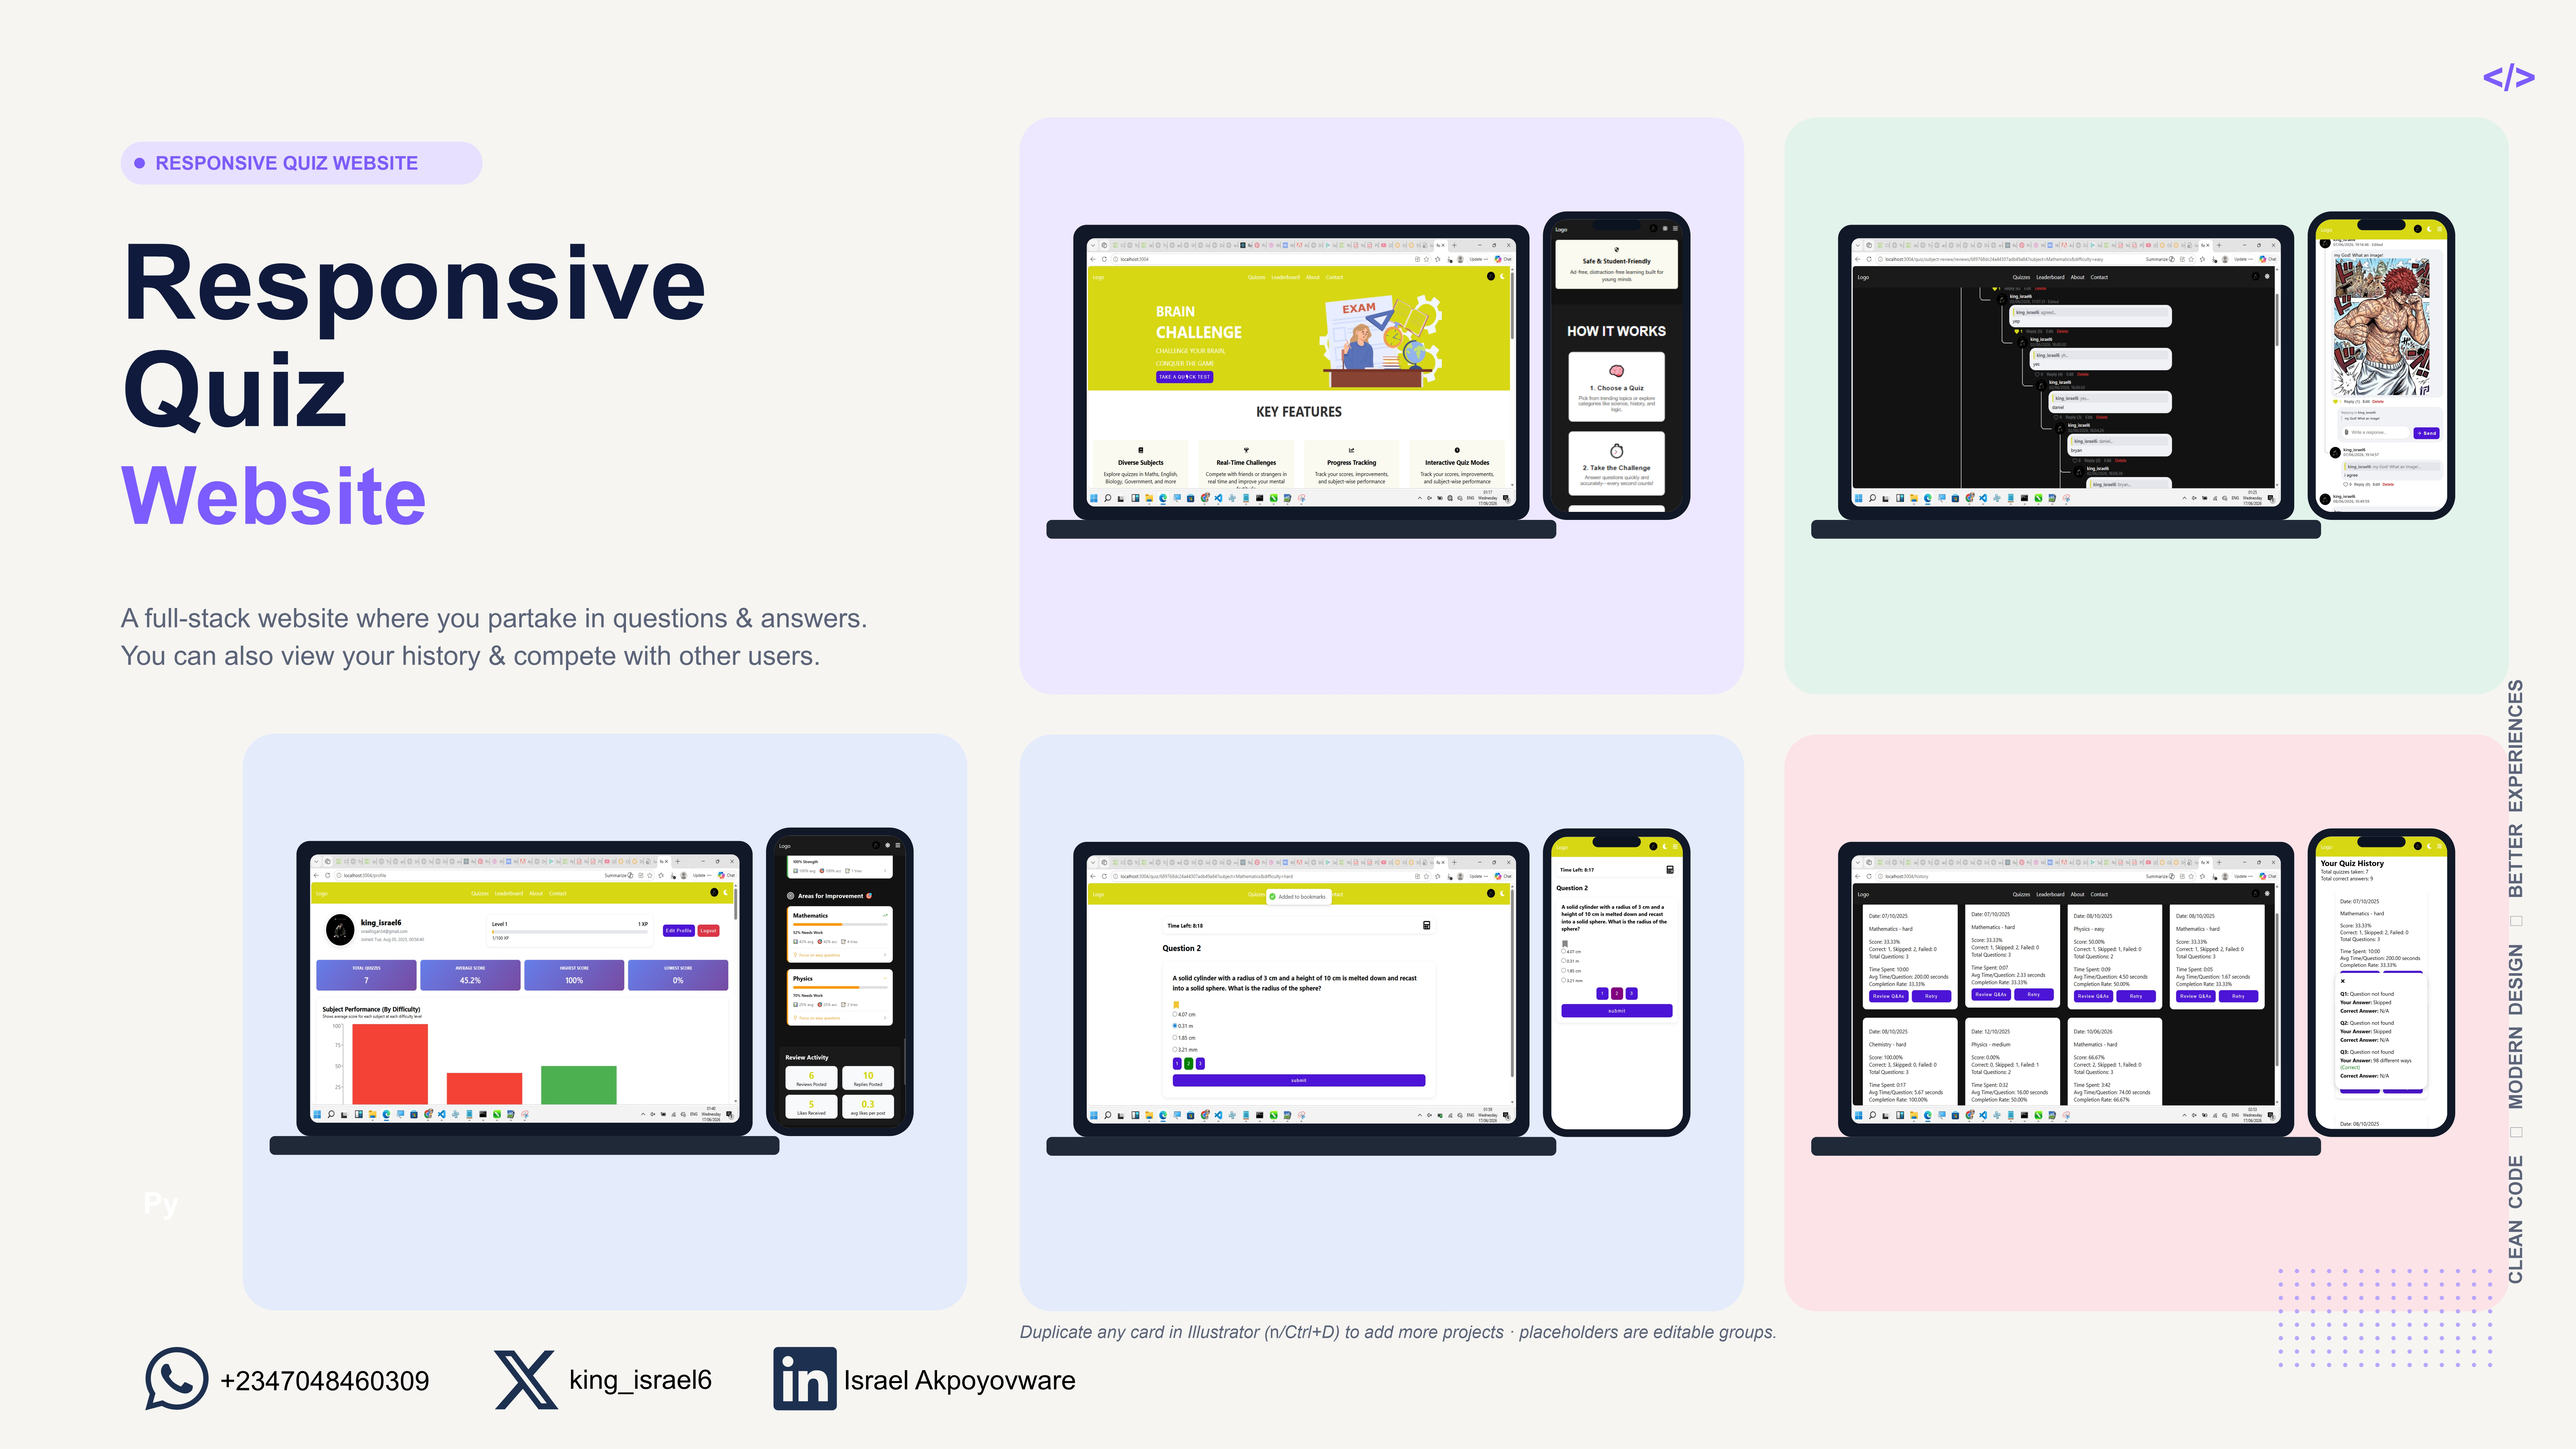
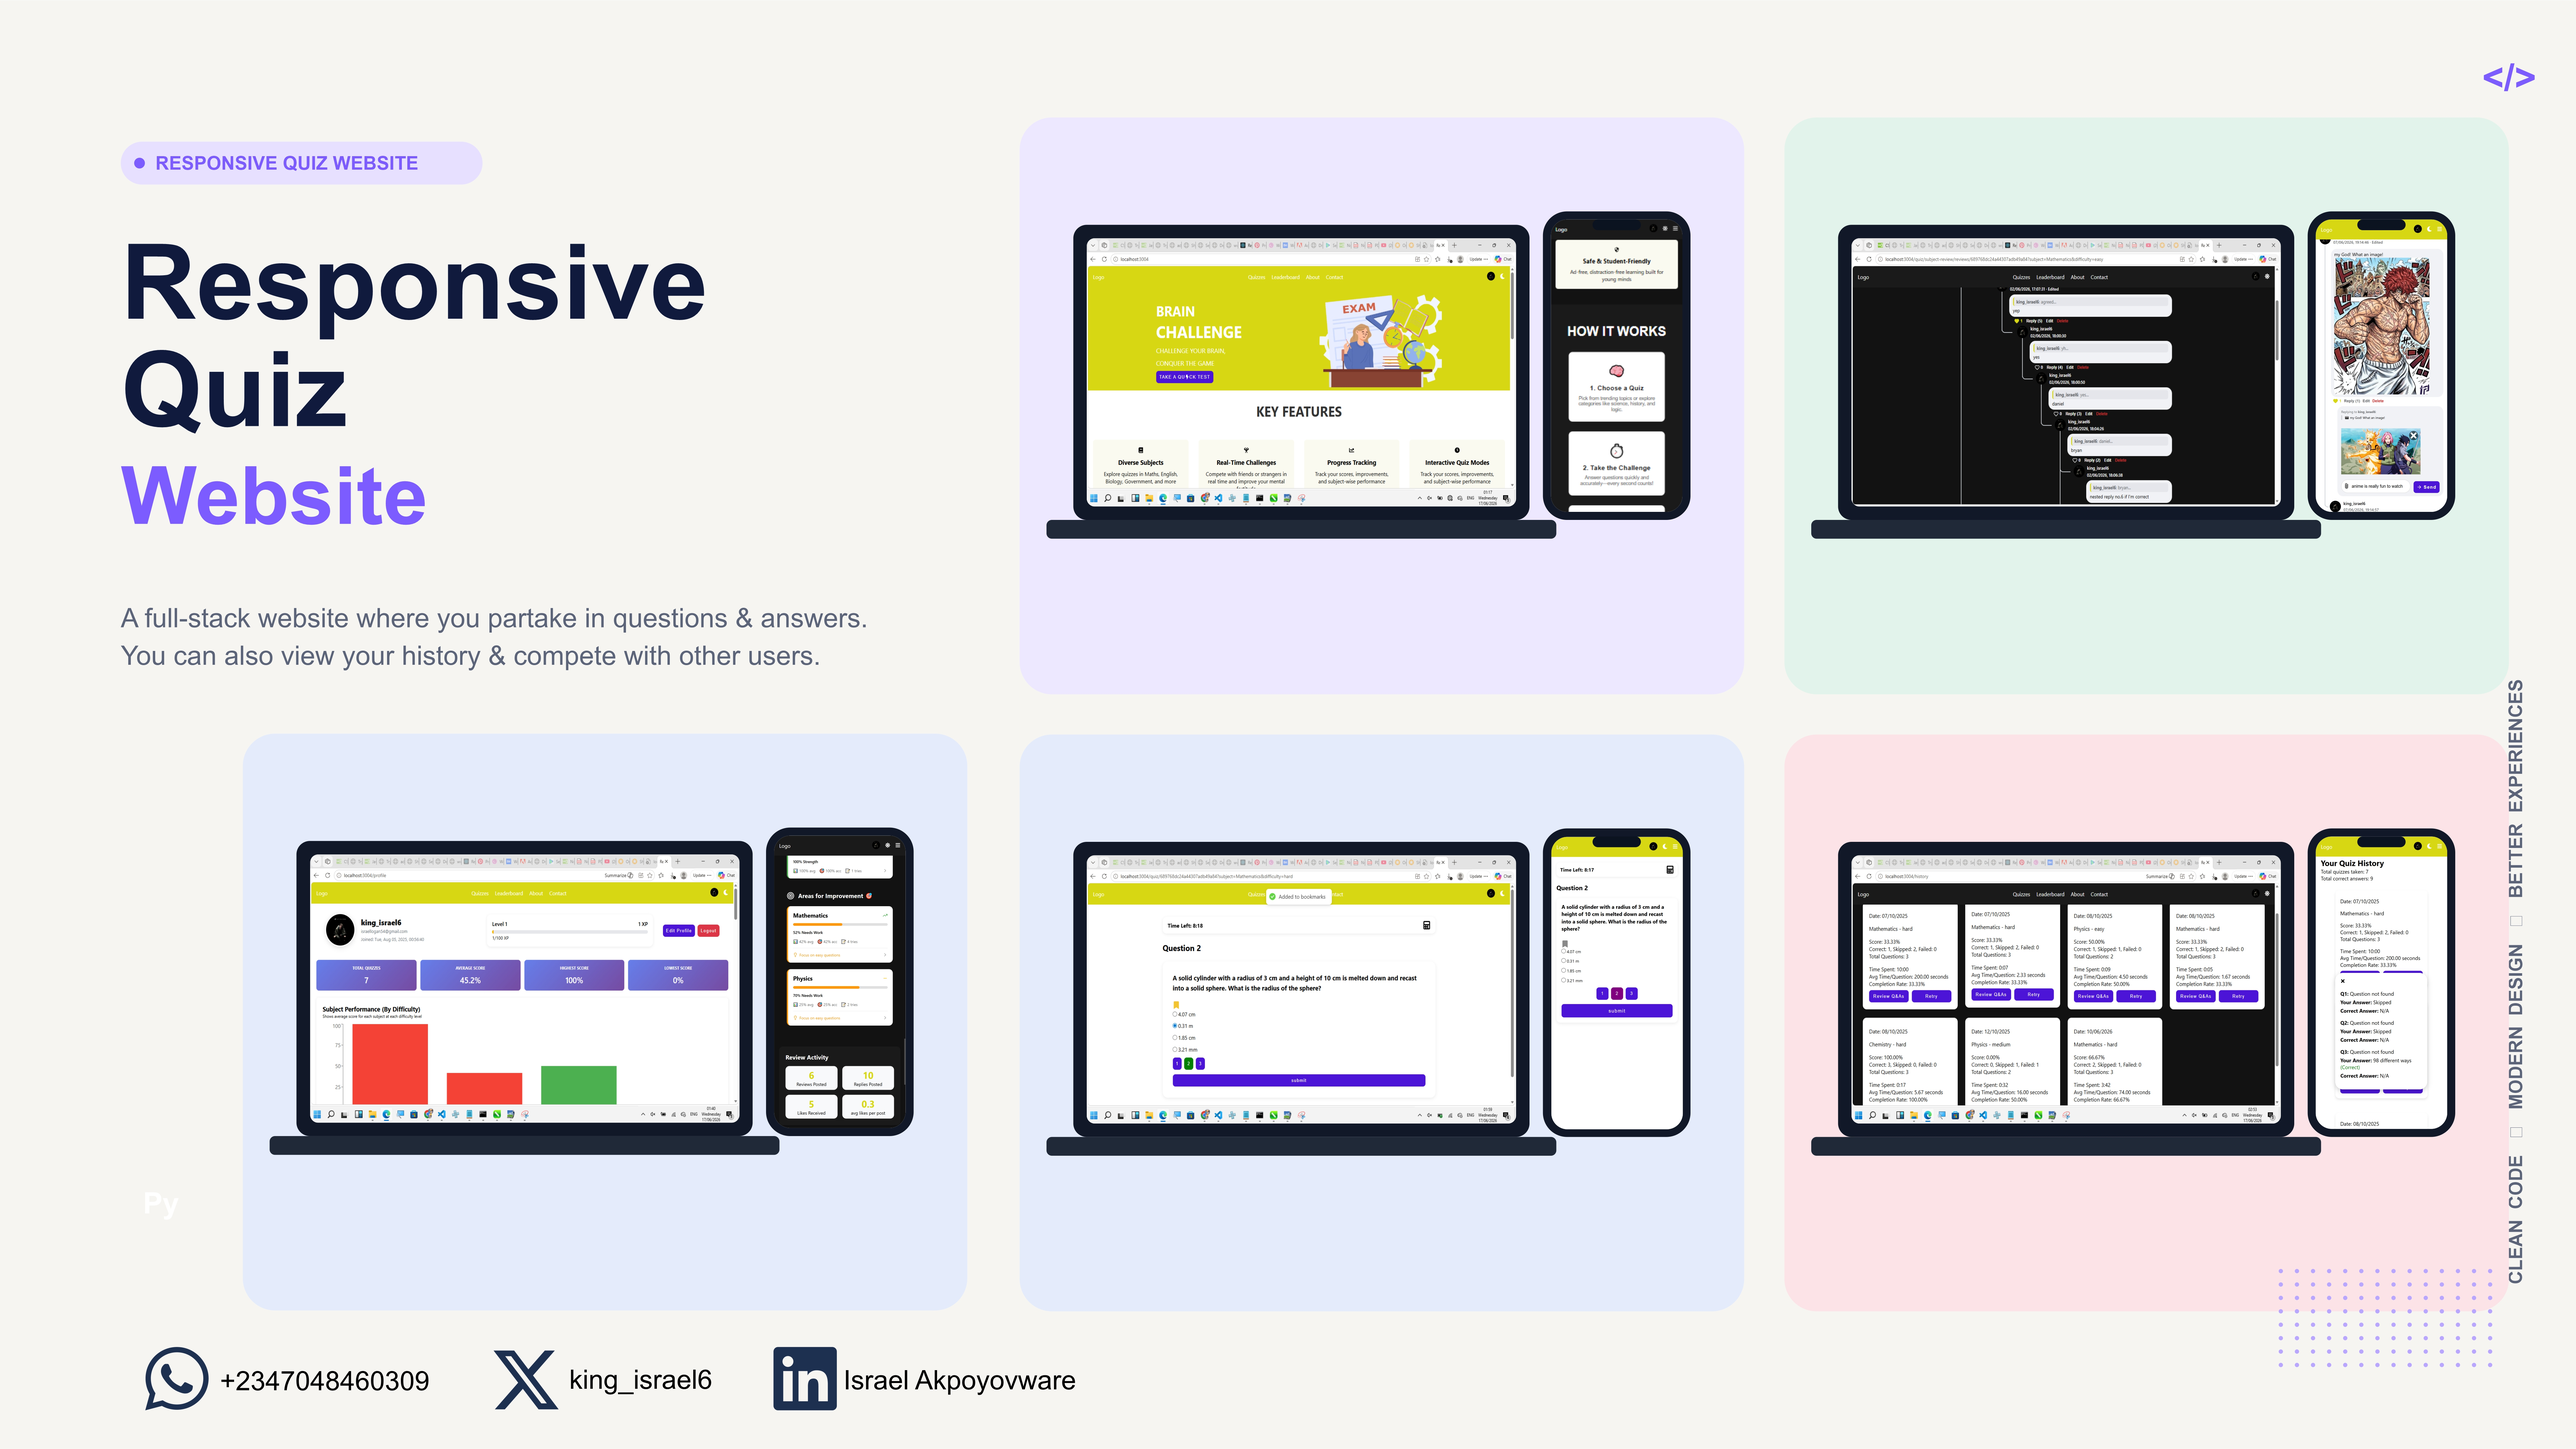
update: made some changes to portfolio

Changed region(s): [[0.7188, 0.1866, 0.875, 0.3733], [0.9062, 0.1555, 0.9688, 0.3421], [0.5938, 0.902, 0.6875, 0.9331]]

diff --git a/src/components/Skills.js b/src/components/Skills.js
@@ -19,18 +19,18 @@ const skillSets = [
     },
     { 
         skillName: "React",
-        skillText: "I'm actively developing my skills in React. I currently build components using hooks and props, manage basic state, and structure projects using reusable logic and clean JSX. I'm growing steadily in this area with each new project.",
+        skillText: "I build responsive user interfaces with React using reusable components, hooks, props, state management, and client-side routing. I focus on creating clean, maintainable code and interactive user experiences while continuously expanding my knowledge of the React ecosystem.",
         skillIcon: (<><FaReact className='react'/></>)
     },
     { 
         skillName: "Node.js",
-        skillText: "I use Node.js for backend logic, route handling, and servers. I build CRUD APIs for user auth, profile edits, comment systems with a like feature, search function and a payment gateway for e-commerce websites.",
+        skillText: "I use Node.js and Express to build backend services, RESTful APIs, and authentication systems. My experience includes user registration and login, profile management, comment systems, search functionality, OTP verification, payment integration, and database-driven applications using MongoDB and PostgreSQL.",
         // search function that returns relevant results
         skillIcon: (<><FaNodeJs className='node'/></>)
     },
     { 
         skillName: "GitHub",
-        skillText: "While I've used GitHub for version control and hosting projects in the past, it's an area I'm revisiting. I'm familiar with basic commands and collaboration workflows, and I'm working on making Git a more active part of my dev process.",
+        skillText: "I use GitHub for version control, project management, and code hosting. I'm comfortable with essential Git workflows such as cloning repositories, creating commits, managing branches, resolving merge conflicts, and collaborating on projects while continuously improving my version control practices.",
         skillIcon: (<><FaGithub className='github'/></>)
     }
 ]

diff --git a/src/components/Header.js b/src/components/Header.js
@@ -1,5 +1,5 @@
 import React, { useState } from 'react'
-import { FaBars, FaTimes } from 'react-icons/fa'
+import { FaCode, FaTimes } from 'react-icons/fa'
 
 function Header() {
   const [isOpen, setIsOpen] = useState(false)
@@ -21,7 +21,7 @@ function Header() {
         </ul> 
       </nav>
       <div className='menu-container' onClick={showNavBar}>
-        {isOpen ? <FaTimes className='menu-icon'/> : <FaBars className='menu-icon'/>}
+        {isOpen ? <FaTimes className='menu-icon'/> : <FaCode className='menu-icon'/>}
       </div>
     </section>
   )
